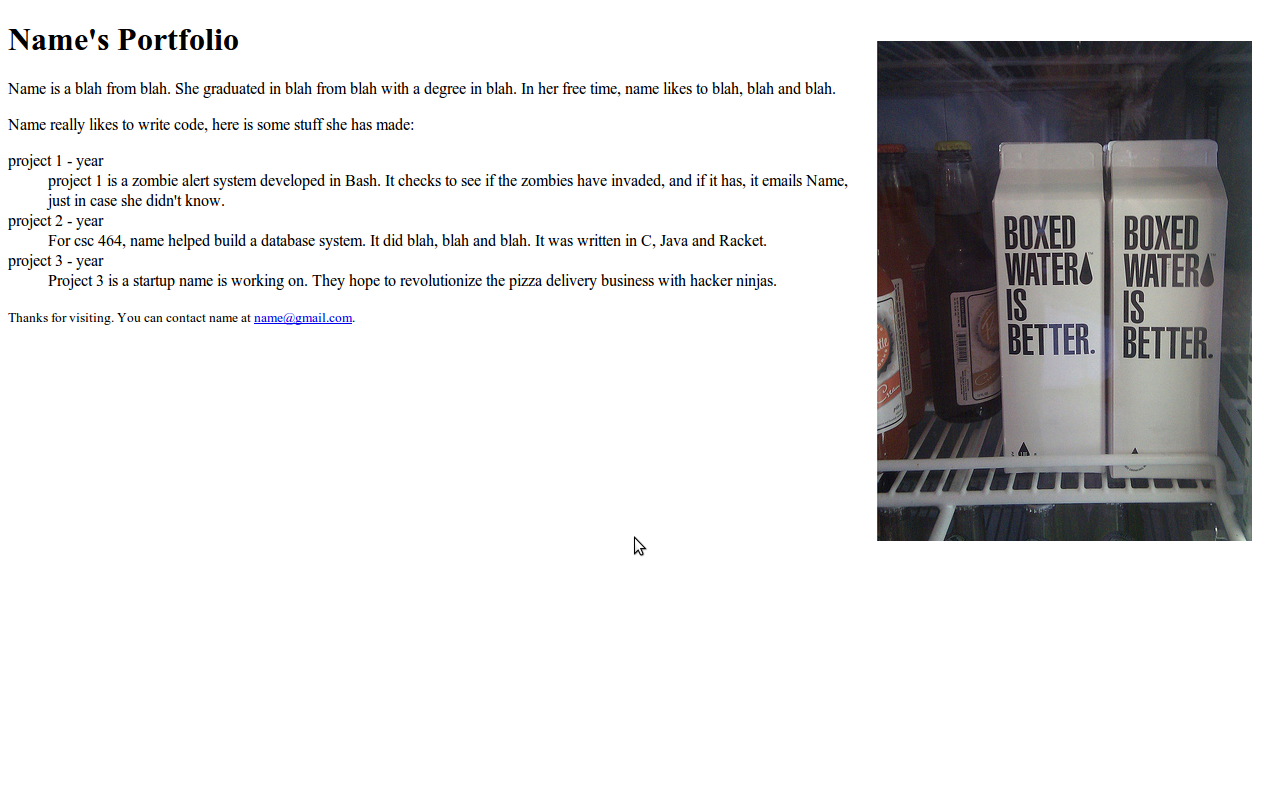
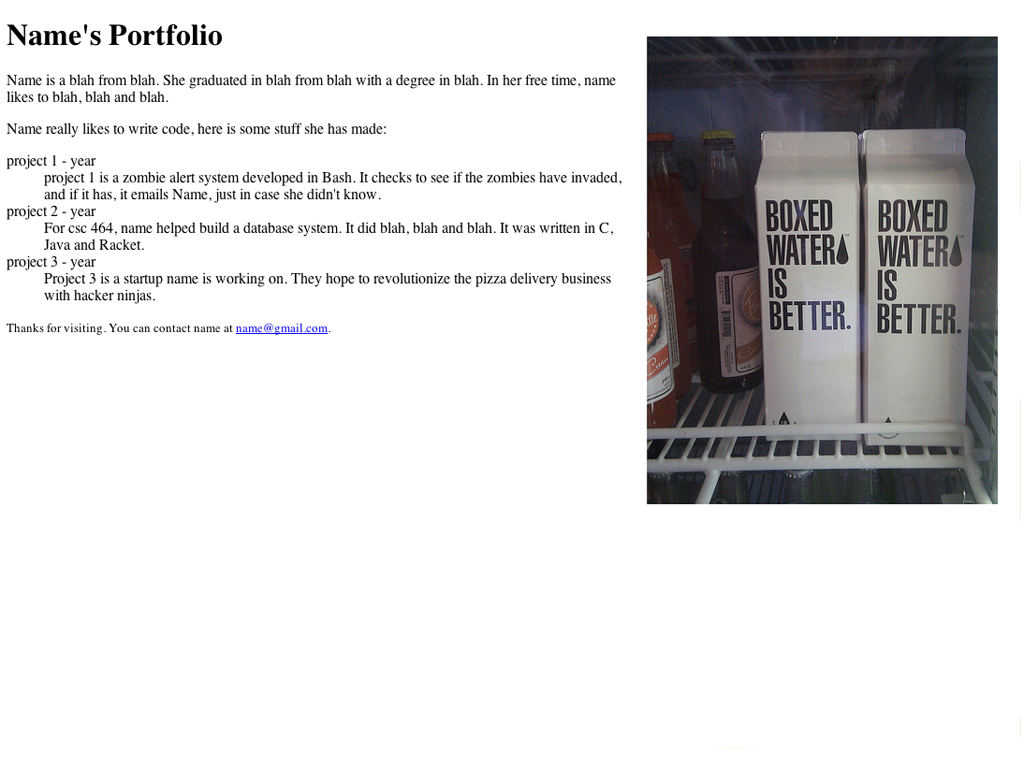
Updating personal talk

Changed region(s): [[0.0, 0.0312, 1.0, 0.6875], [0.0, 0.0312, 0.2188, 0.0625]]

diff --git a/personal/index.html b/personal/index.html
@@ -105,7 +105,7 @@
 
 <h3><a href="https://github.com/icco/personal-website-talk/blob/master/example.html">https://github.com/icco/personal-website-talk/blob/master/example.html</a></h3></div>
 </div><div class="slide" data-transition="none"><div class="content full-page" ref="talk/talk/15">
-<p><img src="./file/talk/example.png" width="1280" height="800" title="example" alt="alt text"/></p></div>
+<p><img src="./file/talk/example.png" width="1024" height="768" title="example" alt="alt text"/></p></div>
 </div><div class="slide" data-transition="none"><div class="content" ref="talk/talk/16">
 <h3>Alright. Let's put our site online.</h3>
 
